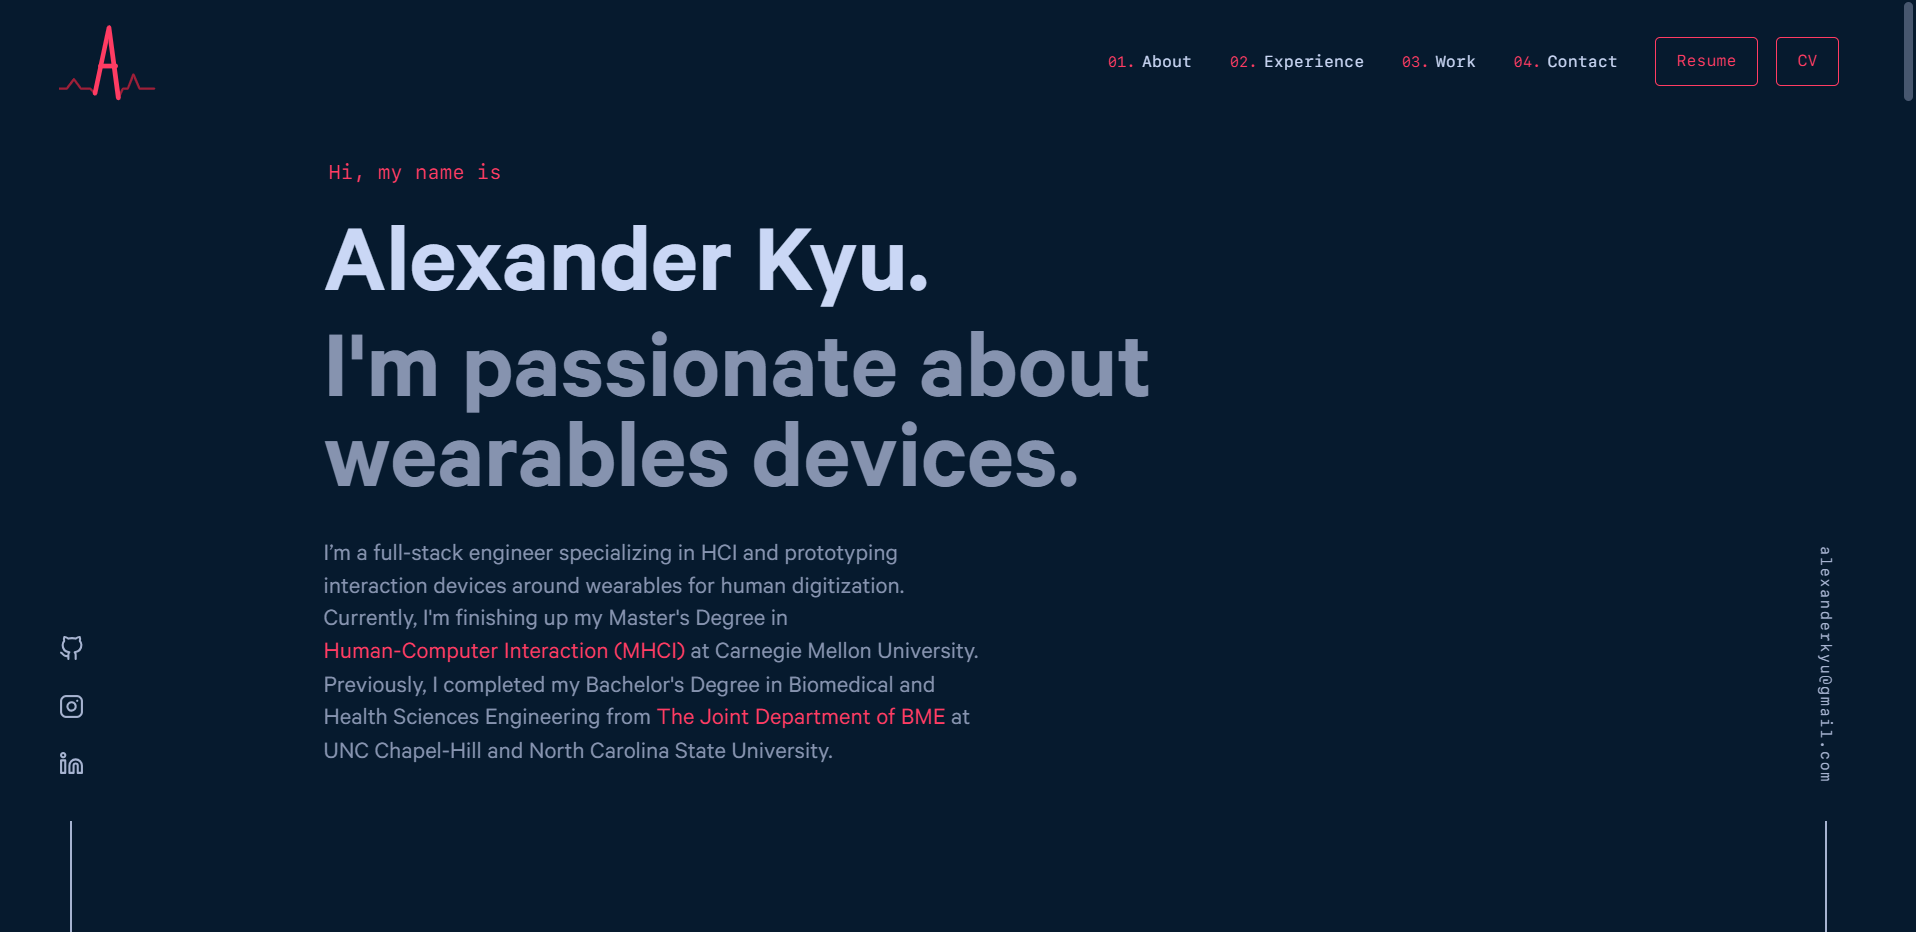
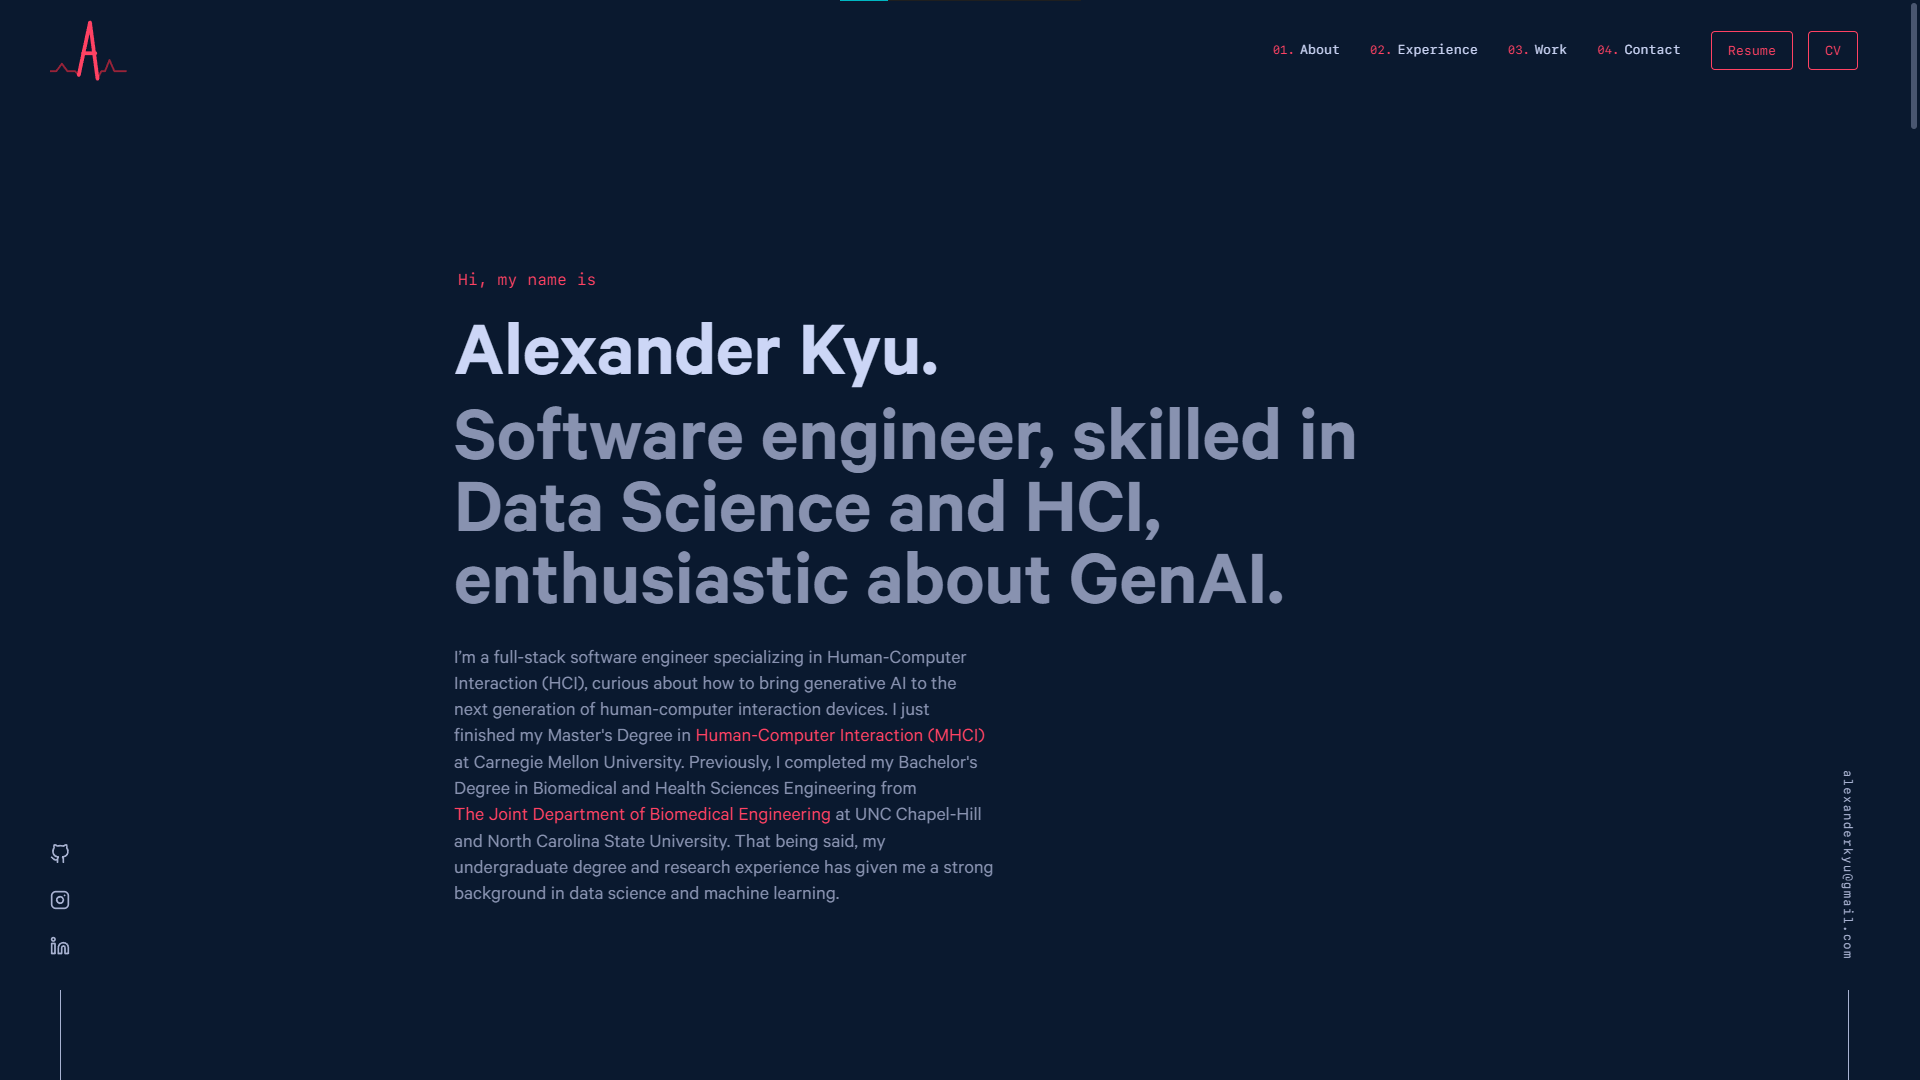
updates to image and tagline

diff --git a/src/components/sections/hero.js b/src/components/sections/hero.js
@@ -59,12 +59,11 @@ const Hero = () => {
     return () => clearTimeout(timeout);
   }, []);
 
-  const one = <h1>Hi, my name is</h1>;
+  const one = <h1 style={{ marginTop: '100px' }}>Hi, my name is</h1>;
   const two = <h2 className="big-heading">Alexander Kyu.</h2>;
   const three = (
     <h3 className="big-heading">
-      Software engineer, skilled in Data Science and HCI, enthusiastic about generative AI
-      applications.
+      Software engineer, skilled in Data Science and HCI, enthusiastic about GenAI.
     </h3>
   );
   const four = (
